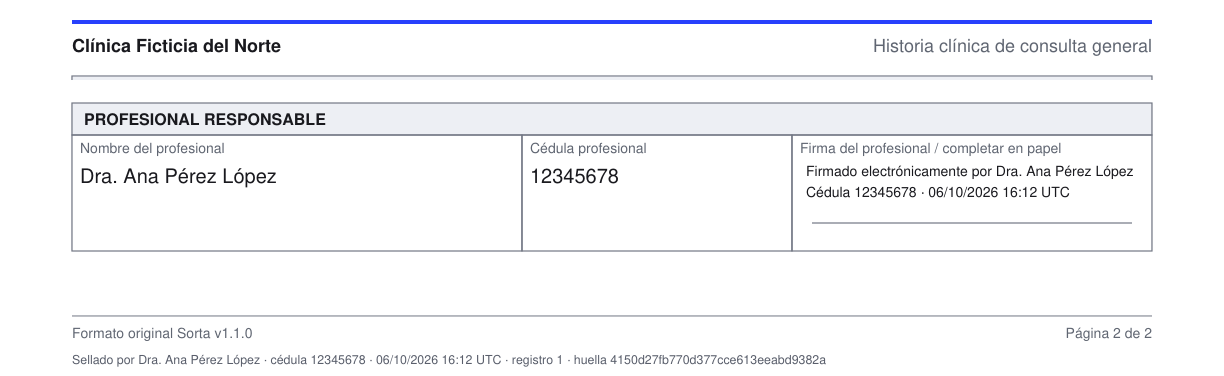
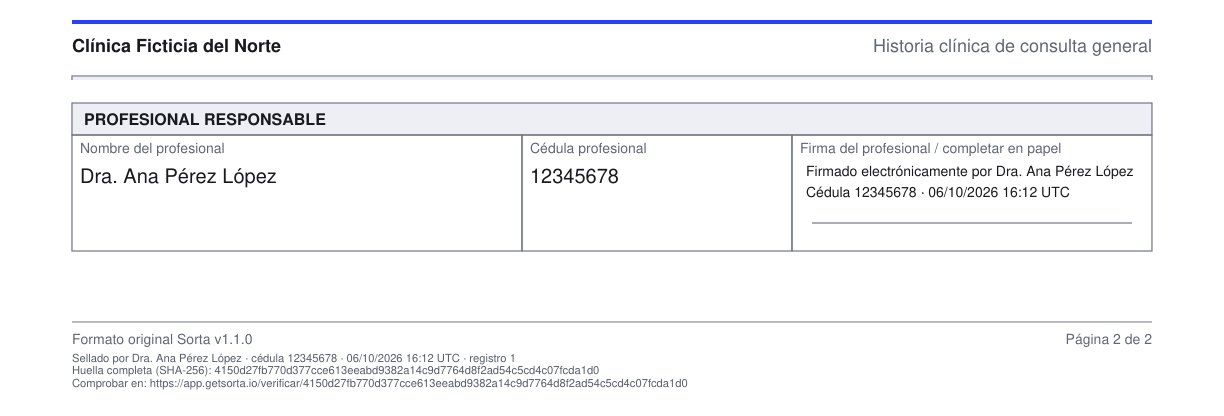
Tone down signing claims and refresh sample images
- No independent-proof claims: hashes and the chain detect changes on verification; time and signer identity are recorded by Sorta
- Paper copy described as full fingerprint plus a verification address, not tracing
- Evidence package lists chain and access history; independent time anchor stated as not included yet
- Sample images regenerated with the new page layout

diff --git a/producto/documentos-firmados.html b/producto/documentos-firmados.html
@@ -15,7 +15,7 @@
   <link rel="stylesheet" href="/assets/features.css">
   <link rel="stylesheet" href="/assets/seal.css">
   <title>Documentos firmados y bloqueados para consultorios | Sorta</title>
-  <meta name="description" content="Firma documentos médicos con nombre y cédula verificada, bloquéalos con una huella digital y comprueba que nada cambió. Notas posteriores y paquete de evidencia.">
+  <meta name="description" content="Firma documentos médicos con nombre y cédula verificada, bloquéalos con una huella digital y verifica si cambiaron. Notas posteriores y paquete de evidencia.">
   <meta name="robots" content="index, follow, max-image-preview:large">
   <link rel="canonical" href="https://mx.getsorta.io/producto/documentos-firmados">
   <link rel="alternate" hreflang="es-MX" href="https://mx.getsorta.io/producto/documentos-firmados">
@@ -24,14 +24,14 @@
   <meta property="og:locale" content="es_MX">
   <meta property="og:url" content="https://mx.getsorta.io/producto/documentos-firmados">
   <meta property="og:title" content="Documentos firmados y bloqueados para consultorios | Sorta">
-  <meta property="og:description" content="Firma documentos médicos con nombre y cédula verificada, bloquéalos con una huella digital y comprueba que nada cambió. Notas posteriores y paquete de evidencia.">
+  <meta property="og:description" content="Firma documentos médicos con nombre y cédula verificada, bloquéalos con una huella digital y verifica si cambiaron. Notas posteriores y paquete de evidencia.">
   <meta property="og:image" content="https://mx.getsorta.io/assets/og-image.png">
   <meta property="og:image:width" content="1200">
   <meta property="og:image:height" content="630">
   <meta property="og:image:alt" content="Sorta México — Automatización de formatos médicos para consultorios">
   <meta name="twitter:card" content="summary_large_image">
   <meta name="twitter:title" content="Documentos firmados y bloqueados para consultorios | Sorta">
-  <meta name="twitter:description" content="Firma documentos médicos con nombre y cédula verificada, bloquéalos con una huella digital y comprueba que nada cambió. Notas posteriores y paquete de evidencia.">
+  <meta name="twitter:description" content="Firma documentos médicos con nombre y cédula verificada, bloquéalos con una huella digital y verifica si cambiaron. Notas posteriores y paquete de evidencia.">
   <meta name="twitter:image" content="https://mx.getsorta.io/assets/og-image.png">
   <meta name="twitter:image:alt" content="Sorta México — Automatización de formatos médicos">
   <script type="application/ld+json">
@@ -103,7 +103,7 @@
       "@id": "https://mx.getsorta.io/producto/documentos-firmados#webpage",
       "url": "https://mx.getsorta.io/producto/documentos-firmados",
       "name": "Documentos firmados y bloqueados para consultorios | Sorta",
-      "description": "Firma documentos médicos con nombre y cédula verificada, bloquéalos con una huella digital y comprueba que nada cambió. Notas posteriores y paquete de evidencia.",
+      "description": "Firma documentos médicos con nombre y cédula verificada, bloquéalos con una huella digital y verifica si cambiaron. Notas posteriores y paquete de evidencia.",
       "inLanguage": "es-MX",
       "isPartOf": {
         "@id": "https://mx.getsorta.io/#website"
@@ -180,7 +180,7 @@
 
   <main class="page-main feature-page" id="contenido">
     <nav class="page-breadcrumbs wrap" aria-label="Migas de pan"><a href="/">Inicio</a><span aria-hidden="true">/</span><span aria-current="page">Documentos firmados</span></nav>
-    <section class="feature-hero wrap" aria-labelledby="page-title"><p class="eyebrow">SORTA PARA CLÍNICAS EN MÉXICO · Firma y bloqueo</p><h1 id="page-title">Lo que firmas,<br><em>queda firmado.</em></h1><p class="feature-lead">Cuando tu doctor firma un paquete en Sorta, los documentos se bloquean con su nombre, su cédula verificada, la fecha y una huella digital. Si algo cambia después, Sorta lo detecta. Y si hay que corregir, queda una nota firmada junto al original.</p><div class="actions"><a class="button" href="/contacto" data-track="primary_cta">Ver una demo <svg><use href="#arrow"/></svg></a><a class="text-link" href="#flujo">Ver cómo funciona ↓</a></div></section>
+    <section class="feature-hero wrap" aria-labelledby="page-title"><p class="eyebrow">SORTA PARA CLÍNICAS EN MÉXICO · Firma y bloqueo</p><h1 id="page-title">Lo que firmas,<br><em>queda firmado.</em></h1><p class="feature-lead">Cuando tu doctor firma un paquete en Sorta, los documentos se bloquean con su nombre, su cédula verificada, la fecha y una huella digital. Si algo cambia después, Sorta puede detectarlo. Y si hay que corregir, queda una nota firmada junto al original.</p><div class="actions"><a class="button" href="/contacto" data-track="primary_cta">Ver una demo <svg><use href="#arrow"/></svg></a><a class="text-link" href="#flujo">Ver cómo funciona ↓</a></div></section>
     <figure class="feature-showcase wrap seal-showcase"><div class="feature-window"><span class="status-dot"></span><span>Sorta · Documento sellado</span></div>
       <div class="seal-demo">
         <div class="seal-demo__head"><div><p class="seal-demo__kicker">DOCUMENTO SELLADO</p><p class="seal-demo__title">Registro 1</p></div><span class="seal-demo__badge">Bloqueado</span></div>
@@ -197,11 +197,11 @@
       </div>
       <figcaption>Ejemplo ilustrativo de la pantalla de un documento sellado · Datos ficticios</figcaption></figure>
     <section class="content-section" id="flujo" aria-labelledby="flow-title"><div class="content-section__heading"><p class="section-label">EN EL DÍA A DÍA</p><h2 id="flow-title">Cuatro pasos.<br><em>Sin complicarte.</em></h2></div><div class="feature-steps feature-steps--four"><article><span class="feature-number">01</span><h3>Cada persona, su usuario</h3><p>El administrador de la clínica da de alta a doctores y a recepción, cada quien con su correo y su contraseña. Se acabó la cuenta compartida.</p></article><article><span class="feature-number">02</span><h3>Cédula verificada</h3><p>Cada doctor captura su nombre y su cédula. El administrador la revisa en el registro de la SEP y la marca como verificada. Solo así se puede firmar.</p></article><article><span class="feature-number">03</span><h3>Firmar y bloquear</h3><p>El doctor revisa el paquete, escribe su contraseña otra vez y firma. Los documentos quedan bloqueados con su nombre, cédula, fecha y huella digital.</p></article><article><span class="feature-number">04</span><h3>Verifica o corrige</h3><p>Pulsa “Verificar documento” cuando quieras. Si hay que aclarar algo, se agrega una nota posterior firmada; el original no se toca.</p></article></div></section>
-    <section class="feature-detail wrap" id="registro"><div><p class="eyebrow">01 / EN LA PANTALLA</p><h2>Cada firma deja huella.<br><em>De verdad.</em></h2><p>La huella digital es un código único calculado a partir del contenido exacto de cada documento. Si una sola letra cambia, la huella ya no coincide. Cada registro además se enlaza con el anterior de la clínica, así que borrar o alterar uno rompe la cadena y se nota.</p><p>Quien tenga acceso puede ver quién firmó, cuándo, y quién abrió, descargó o verificó el documento después.</p></div><figure class="seal-facts"><ul><li><strong>Quién firmó</strong><span>Nombre y cédula verificada del profesional, tomados de su perfil y no de lo que se escriba en el formato.</span></li><li><strong>Cuándo</strong><span>Fecha y hora del momento exacto de la firma.</span></li><li><strong>Qué firmó</strong><span>La huella SHA-256 de cada PDF y de las respuestas del paquete.</span></li><li><strong>La cadena</strong><span>Cada registro incluye la huella del anterior. Si alguno cambia, los siguientes dejan de coincidir.</span></li><li><strong>Quién lo vio</strong><span>Un historial de consultas, descargas y verificaciones por persona.</span></li></ul><figcaption>Lo que registra Sorta en cada documento sellado</figcaption></figure></section>
-    <section class="feature-detail wrap"><div><p class="eyebrow">02 / EN EL PAPEL</p><h2>La firma viaja<br><em>con el documento.</em></h2><p>Al descargar o imprimir un paquete sellado, cada página lleva al pie quién lo firmó, su cédula, la fecha, el número de registro y la huella. Quien reciba una copia en papel puede rastrearla hasta el registro original.</p></div><figure><img src="/assets/homepage/10-documento-sellado.png" width="1224" height="376" alt="Fragmento de una historia clínica ficticia con el bloque de firma electrónica del profesional y, al pie de la página, la línea de sello con nombre, cédula, fecha, registro y huella" loading="lazy"><figcaption>Fragmento de un documento ficticio · Datos ficticios</figcaption></figure></section>
-    <section class="feature-detail wrap"><div><p class="eyebrow">03 / PARA TU DEFENSA</p><h2>Un paquete de evidencia<br><em>que se comprueba solo.</em></h2><p>Descarga un archivo con los PDF firmados, el detalle de lo que se selló y las huellas, junto con instrucciones sencillas para volver a calcularlas con herramientas comunes de tu computadora. No hace falta confiar en Sorta para comprobar que nada cambió: cualquier persona puede repetir la verificación.</p></div><figure class="seal-facts seal-facts--files"><ul><li><code>documentos/</code><span>Los PDF exactos que se firmaron</span></li><li><code>manifest.json</code><span>Qué se selló y quién firmó</span></li><li><code>sha256sums.txt</code><span>Las huellas para comprobar cada archivo</span></li><li><code>LEEME-verificacion.txt</code><span>Los pasos para verificar, en español</span></li><li><code>paquete-sellado.pdf</code><span>Copia para imprimir con la línea de sello</span></li></ul><figcaption>Contenido del paquete de evidencia</figcaption></figure></section>
-    <section class="content-section" id="limites" aria-labelledby="limits-title"><div class="content-section__heading"><p class="section-label">SIN LETRA PEQUEÑA</p><h2 id="limits-title">Lo que hace Sorta.<br><em>Y lo que no promete.</em></h2></div><div class="honest-grid"><article><h3>Lo que sí hace</h3><ul><li>Firma con usuario y contraseña propios de cada profesional, con su cédula verificada por tu clínica.</li><li>Bloquea el paquete: ya no se puede editar ni borrar en silencio.</li><li>Detecta cambios posteriores con la huella y la cadena de registros.</li><li>Guarda quién vio, descargó o verificó cada documento.</li><li>Permite aclarar con notas posteriores firmadas, sin tocar el original.</li></ul></article><article><h3>Lo que no promete</h3><ul><li>No es la firma electrónica avanzada (e.firma) ni incluye hoy sellos de tiempo de un prestador acreditado. Si tu clínica los necesita, platiquémoslo.</li><li>No sustituye tu expediente clínico ni la revisión del profesional responsable.</li><li>No certifica por sí solo el cumplimiento normativo de tu clínica; esa responsabilidad sigue siendo del consultorio.</li><li>Aplica a los paquetes que se firman con esta función. Lo anterior no se sella de forma retroactiva.</li></ul></article></div></section>
-    <section class="faq-section wrap" aria-labelledby="feature-faq"><div><p class="eyebrow">ANTES DE EMPEZAR</p><h2 id="feature-faq">Tus preguntas,<br><em>con respuesta.</em></h2><a class="text-link" href="/contacto">Platiquemos de tu consultorio ↗</a></div><div class="faq-list"><details><summary>¿Quién puede firmar un paquete?<span aria-hidden="true">+</span></summary><p>Solo un usuario activo cuyo perfil profesional (nombre y cédula) haya sido verificado por un administrador de la clínica. Recepción puede preparar y revisar documentos, pero no firma como doctor.</p></details><details><summary>¿Qué pasa si me equivoco después de firmar?<span aria-hidden="true">+</span></summary><p>El paquete ya no se edita. Se agrega una nota posterior, también firmada, con el motivo y el texto de la aclaración. Queda guardada junto al original y aparece en el historial.</p></details><details><summary>¿Cómo comprobamos que un documento no cambió?<span aria-hidden="true">+</span></summary><p>Con el botón “Verificar documento” dentro de Sorta, o descargando el paquete de evidencia y recalculando las huellas con una herramienta común, siguiendo las instrucciones incluidas.</p></details><details><summary>¿Esto es lo mismo que la e.firma del SAT?<span aria-hidden="true">+</span></summary><p>No. Hoy la firma se hace con el usuario y la contraseña de cada profesional, y su cédula verificada por tu clínica. Si tu operación requiere e.firma o sellos de tiempo de un prestador acreditado, cuéntanos tu caso y lo revisamos.</p></details><details><summary>¿Reemplaza mi expediente clínico electrónico?<span aria-hidden="true">+</span></summary><p>No. Sorta se enfoca en preparar, firmar y conservar los documentos de la visita. El consultorio decide cómo integrarlos a su expediente y su operación.</p></details><details><summary>¿Los pacientes ven esta información?<span aria-hidden="true">+</span></summary><p>No. El enlace que recibe el paciente solo permite llenar sus documentos. El registro de firma, las huellas y el historial de accesos son para el equipo de la clínica.</p></details><details><summary>¿Qué pasa con los documentos que ya tenía?<span aria-hidden="true">+</span></summary><p>La firma y el bloqueo aplican a los paquetes que se firman con esta función. Los documentos anteriores no se sellan de manera retroactiva.</p></details></div></section>
+    <section class="feature-detail wrap" id="registro"><div><p class="eyebrow">01 / EN LA PANTALLA</p><h2>Cada firma deja huella.<br><em>De verdad.</em></h2><p>La huella digital es un código único calculado a partir del contenido exacto de cada documento. Si una sola letra cambia, la huella ya no coincide. Cada registro además se enlaza con el anterior de la clínica, y al verificar Sorta recalcula toda la cadena: un registro alterado o quitado hace que las verificaciones siguientes fallen.</p><p>El equipo puede ver quién firmó, cuándo, y quién abrió, descargó o verificó el documento después, con un historial que se puede revisar por tramos y se incluye en el paquete de evidencia.</p></div><figure class="seal-facts"><ul><li><strong>Quién firmó</strong><span>Nombre y cédula verificada del profesional, tomados de su perfil y no de lo que se escriba en el formato.</span></li><li><strong>Cuándo</strong><span>Fecha y hora del momento exacto de la firma.</span></li><li><strong>Qué firmó</strong><span>La huella SHA-256 de cada PDF y de las respuestas del paquete.</span></li><li><strong>La cadena</strong><span>Cada registro incluye la huella del anterior. Si alguno cambia, los siguientes dejan de coincidir.</span></li><li><strong>Quién lo vio</strong><span>Un historial de consultas, descargas y verificaciones por persona.</span></li></ul><figcaption>Lo que registra Sorta en cada documento sellado</figcaption></figure></section>
+    <section class="feature-detail wrap"><div><p class="eyebrow">02 / EN EL PAPEL</p><h2>La firma viaja<br><em>con el documento.</em></h2><p>Al descargar o imprimir un paquete sellado, cada página lleva al pie quién lo firmó, su cédula, la fecha, el número de registro, la huella completa y una dirección para comprobar el registro. Quien reciba una copia puede abrir esa dirección y ver si el registro existe y no ha cambiado.</p></div><figure><img src="/assets/homepage/10-documento-sellado.png" width="1224" height="416" alt="Fragmento de una historia clínica ficticia con el bloque de firma electrónica del profesional y, al pie de la página, las líneas de sello con nombre, cédula, fecha, registro, huella completa y dirección de comprobación" loading="lazy"><figcaption>Fragmento de un documento ficticio · Datos ficticios</figcaption></figure></section>
+    <section class="feature-detail wrap"><div><p class="eyebrow">03 / PARA TU DEFENSA</p><h2>Un paquete de evidencia<br><em>que puedes comprobar.</em></h2><p>Descarga un archivo con los PDF firmados, el detalle de lo que se selló, la cadena de huellas y el historial de accesos, junto con instrucciones sencillas para volver a calcular las huellas con herramientas comunes de tu computadora. Eso confirma que los archivos coinciden con lo que Sorta registró. Un sello de tiempo o una firma de un tercero acreditado, que darían confianza independiente, todavía no están incluidos.</p></div><figure class="seal-facts seal-facts--files"><ul><li><code>documentos/</code><span>Los PDF exactos que se firmaron</span></li><li><code>manifest.json</code><span>Qué se selló y quién firmó</span></li><li><code>cadena.json</code><span>Las huellas de la cadena de registros de la clínica</span></li><li><code>historial-de-accesos.json</code><span>Quién vio, descargó o verificó</span></li><li><code>sha256sums.txt</code><span>Las huellas para comprobar cada archivo</span></li><li><code>LEEME-verificacion.txt</code><span>Los pasos para verificar, en español</span></li><li><code>paquete-sellado.pdf</code><span>Copia para imprimir con la línea de sello</span></li></ul><figcaption>Contenido del paquete de evidencia</figcaption></figure></section>
+    <section class="content-section" id="limites" aria-labelledby="limits-title"><div class="content-section__heading"><p class="section-label">SIN LETRA PEQUEÑA</p><h2 id="limits-title">Lo que hace Sorta.<br><em>Y lo que no promete.</em></h2></div><div class="honest-grid"><article><h3>Lo que sí hace</h3><ul><li>Firma con usuario y contraseña propios de cada profesional, con su cédula verificada por tu clínica.</li><li>Bloquea el paquete: ya no se puede editar ni borrar en silencio.</li><li>Detecta cambios posteriores con la huella y la cadena de registros, al verificar.</li><li>Guarda quién creó, editó, envió, vio, descargó o verificó cada paquete firmado.</li><li>Permite aclarar con notas posteriores firmadas, sin tocar el original.</li></ul></article><article><h3>Lo que no promete</h3><ul><li>No es la firma electrónica avanzada (e.firma) ni incluye hoy sellos de tiempo de un prestador acreditado. Si tu clínica los necesita, platiquémoslo.</li><li>No sustituye tu expediente clínico ni la revisión del profesional responsable.</li><li>La hora y la identidad las registra Sorta y las verifica tu clínica; las huellas no equivalen a un sello de tiempo ni a la firma de un tercero acreditado.</li><li>No certifica por sí solo el cumplimiento normativo de tu clínica; esa responsabilidad sigue siendo del consultorio.</li><li>Aplica a los paquetes que se firman con esta función. Lo anterior no se sella de forma retroactiva.</li></ul></article></div></section>
+    <section class="faq-section wrap" aria-labelledby="feature-faq"><div><p class="eyebrow">ANTES DE EMPEZAR</p><h2 id="feature-faq">Tus preguntas,<br><em>con respuesta.</em></h2><a class="text-link" href="/contacto">Platiquemos de tu consultorio ↗</a></div><div class="faq-list"><details><summary>¿Quién puede firmar un paquete?<span aria-hidden="true">+</span></summary><p>Solo un usuario activo cuyo perfil profesional (nombre y cédula) haya sido verificado por un administrador de la clínica, que lo revisa en el registro de la SEP y lo confirma manualmente. Hoy no hay un rol aparte de “doctor”: la clínica decide a quién verifica.</p></details><details><summary>¿Qué pasa si me equivoco después de firmar?<span aria-hidden="true">+</span></summary><p>El paquete ya no se edita. Se agrega una nota posterior, también firmada, con el motivo y el texto de la aclaración. Queda guardada junto al original y aparece en el historial.</p></details><details><summary>¿Cómo comprobamos que un documento no cambió?<span aria-hidden="true">+</span></summary><p>Con el botón “Verificar documento” dentro de Sorta, que recalcula la cadena completa, o descargando el paquete de evidencia y recalculando las huellas con una herramienta común. Esto confirma que lo guardado no cambió; no sustituye un sello de tiempo de un tercero.</p></details><details><summary>¿Esto es lo mismo que la e.firma del SAT?<span aria-hidden="true">+</span></summary><p>No. Hoy la firma se hace con el usuario y la contraseña de cada profesional, y su cédula verificada por tu clínica. Si tu operación requiere e.firma o sellos de tiempo de un prestador acreditado, cuéntanos tu caso y lo revisamos.</p></details><details><summary>¿Reemplaza mi expediente clínico electrónico?<span aria-hidden="true">+</span></summary><p>No. Sorta se enfoca en preparar, firmar y conservar los documentos de la visita. El consultorio decide cómo integrarlos a su expediente y su operación.</p></details><details><summary>¿Los pacientes ven esta información?<span aria-hidden="true">+</span></summary><p>No. El enlace que recibe el paciente solo permite llenar sus documentos. El registro de firma, las huellas y el historial de accesos son para el equipo de la clínica.</p></details><details><summary>¿Qué pasa con los documentos que ya tenía?<span aria-hidden="true">+</span></summary><p>La firma y el bloqueo aplican a los paquetes que se firman con esta función. Los documentos anteriores no se sellan de manera retroactiva.</p></details></div></section>
     <section class="content-section"><div class="content-section__heading"><p class="section-label">ANTES DE FIRMAR</p><h2>Documentos que ya se ven<br><em>como documentos.</em></h2><p>Los formatos de la Biblioteca Sorta se ven como los de papel y puedes revisar cómo van quedando mientras se llenan.</p><a class="text-link" href="/producto/formatos-medicos">Conocer los formatos médicos digitales ↗</a></div></section>
     <section class="feature-related wrap" aria-labelledby="related-title"><p class="eyebrow">TODO CONECTADO</p><h2 id="related-title">El resto de tu recepción.</h2><div><a href="/producto/formatos-medicos"><span>Formatos médicos digitales</span><span aria-hidden="true">↗</span></a><a href="/seguridad"><span>Seguridad y registros</span><span aria-hidden="true">↗</span></a></div></section>
     <section class="cta-panel"><p class="section-label">HABLEMOS DE TU FLUJO</p><h2>Firma con confianza.<br><em>Comprueba cuando quieras.</em></h2><p>Muéstranos cómo firma tu equipo hoy. Revisamos juntos cómo puede ayudarte Sorta.</p><a class="button" href="/contacto" data-track="primary_cta">Platicar con el equipo <svg><use href="#arrow"/></svg></a></section>

diff --git a/index.html b/index.html
@@ -258,13 +258,13 @@
     </section>
 
     <section class="seal-teaser wrap" id="firma" aria-labelledby="seal-title">
-      <div><p class="eyebrow">FIRMA Y BLOQUEO</p><h2 id="seal-title">Lo que firmas,<br><em>queda firmado.</em></h2><p>Cada doctor firma con su propio usuario y su cédula verificada por tu clínica. El paquete se bloquea con una huella digital y puedes comprobar cuando quieras que nada cambió.</p><ul><li>Cada persona del equipo con su usuario y contraseña</li><li>Notas posteriores firmadas, sin tocar el original</li><li>Un paquete de evidencia que se verifica sin depender de Sorta</li></ul><a class="text-link" href="/producto/documentos-firmados">Conocer documentos firmados <svg><use href="#arrow"/></svg></a></div>
+      <div><p class="eyebrow">FIRMA Y BLOQUEO</p><h2 id="seal-title">Lo que firmas,<br><em>queda firmado.</em></h2><p>Cada doctor firma con su propio usuario y su cédula verificada por tu clínica. El paquete se bloquea con una huella digital y Sorta puede comprobar cuando quieras que nada cambió.</p><ul><li>Cada persona del equipo con su usuario y contraseña</li><li>Notas posteriores firmadas, sin tocar el original</li><li>Un paquete de evidencia con huellas que puedes recalcular</li></ul><a class="text-link" href="/producto/documentos-firmados">Conocer documentos firmados <svg><use href="#arrow"/></svg></a></div>
       <div><div class="seal-demo"><div class="seal-demo__head"><div><p class="seal-demo__kicker">DOCUMENTO SELLADO</p><p class="seal-demo__title">Registro 1</p></div><span class="seal-demo__badge">Bloqueado</span></div><dl class="seal-demo__grid"><div><dt>Firmado por</dt><dd>Dra. Ana Pérez López<small>Cédula 12345678</small></dd></div><div><dt>Fecha y hora</dt><dd>6 oct 2026, 2:01 p.m.</dd></div><div class="seal-demo__wide"><dt>Huella digital (SHA-256)</dt><dd><code>6104dc0b…104ffb8f</code></dd></div></dl><div class="seal-demo__result"><strong>Íntegro: nada ha cambiado desde que se firmó.</strong></div></div><small class="seal-caption">Ejemplo ilustrativo · Datos ficticios</small></div>
     </section>
 
     <section class="trust-section wrap" id="seguridad" aria-labelledby="trust-title">
       <div class="trust-intro"><span class="large-icon"><svg><use href="#shield"/></svg></span><p class="eyebrow">CONFIANZA, SIN LETRA PEQUEÑA</p><h2 id="trust-title">Tus documentos.<br><em>Tu control.</em></h2><a class="text-link" href="/seguridad">Conoce cómo los cuidamos <svg><use href="#arrow"/></svg></a></div>
-      <div class="trust-rows"><article><span>01</span><div><h3>Los datos pertenecen al consultorio.</h3><p>Sorta los procesa para preparar y resguardar el papeleo; no los vende con fines comerciales.</p></div></article><article><span>02</span><div><h3>Tu equipo revisa antes de terminar.</h3><p>Recepción o la persona responsable valida el paquete antes de firmar, imprimir o archivar.</p></div></article><article><span>03</span><div><h3>Cada firma deja huella.</h3><p>Quién firmó, con qué cédula, cuándo y qué documento. Si algo cambia después, Sorta lo detecta. <a href="/producto/documentos-firmados">Cómo funciona</a>.</p></div></article><article><span>04</span><div><h3>Cada visita conserva su registro.</h3><p>El paquete queda identificado con fecha y hora, y el historial muestra quién lo vio o descargó. Sorta organiza el papeleo; no reemplaza tu expediente clínico.</p></div></article></div>
+      <div class="trust-rows"><article><span>01</span><div><h3>Los datos pertenecen al consultorio.</h3><p>Sorta los procesa para preparar y resguardar el papeleo; no los vende con fines comerciales.</p></div></article><article><span>02</span><div><h3>Tu equipo revisa antes de terminar.</h3><p>Recepción o la persona responsable valida el paquete antes de firmar, imprimir o archivar.</p></div></article><article><span>03</span><div><h3>Cada firma deja huella.</h3><p>Quién firmó, con qué cédula, cuándo y qué documento. Si algo cambia después, Sorta puede detectarlo. <a href="/producto/documentos-firmados">Cómo funciona</a>.</p></div></article><article><span>04</span><div><h3>Cada visita conserva su registro.</h3><p>El paquete queda identificado con fecha y hora, y el historial muestra quién lo vio o descargó. Sorta organiza el papeleo; no reemplaza tu expediente clínico.</p></div></article></div>
     </section>
 
     <section class="resources-section section-shell" id="recursos" aria-labelledby="resources-title"><div class="wrap">

diff --git a/docs/maintenance.md b/docs/maintenance.md
@@ -39,4 +39,4 @@ moving editable marketing sources.
 
 ### Documentos firmados (producto/documentos-firmados)
 
-The page describes the product's sign-and-lock feature: a verified clinician signs with their own login and password, the packet is locked with a SHA-256 fingerprint chained to the clinic's previous record, notas posteriores are signed corrections, and an evidence package can be verified offline. Keep claims limited to that. Today it is **not** an e.firma/FEA signature, does not include timestamps from an accredited provider (PSC), is not a NOM-004/NOM-024 certification and does not replace the clinic's expediente. Before changing the wording, check the product behaviour in the app (Settings → Equipo, Documentos → Firmar y bloquear). Do not state where data is hosted until the hosting location is decided.
+The page describes the product's sign-and-lock feature: a verified clinician signs with their own login and password, the packet is locked with a SHA-256 fingerprint chained to the clinic's previous record, notas posteriores are signed corrections, and an evidence package can be verified offline. Keep claims limited to that. Do not call it independent proof: hashes and the chain detect changes on verification, but the time and signer identity are recorded by Sorta (cédula attested by a clinic admin) and there is no external time anchor yet. The printed page carries the full fingerprint and a verification address (`/verificar/<hash>`); there is no QR. Today it is **not** an e.firma/FEA signature, does not include timestamps from an accredited provider (PSC), is not a NOM-004/NOM-024 certification and does not replace the clinic's expediente. Before changing the wording, check the product behaviour in the app (Settings → Equipo, Documentos → Firmar y bloquear). Do not state where data is hosted until the hosting location is decided.
